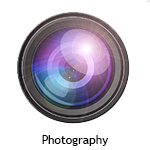
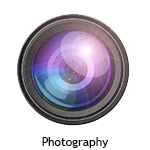
gallery.html

diff --git a/pages/gallery.html b/pages/gallery.html
@@ -36,6 +36,6 @@ function MM_swapImage() { //v3.0
 <h1 align="center"><img src="../Pictures/macbook.png" width="1024" height="300" alt="MacBook Pro" /></h1>
 <h2 align="center">Welcome to my portfolio page!</h2>
 <p align="center">Click on one of the following programs to view my projects: Adobe Photoshop, Adobe Illustrator, Cinema 4D.</p>
-<p align="center"><a href="photoshop.html"><img src="../images/photoshop.png" width="150" height="150" alt="Photoshop" /></a><a href="illustrator.html"><img src="../images/illustrator.png" width="150" height="150" alt="Illustrator" /></a><a href="cinema_4d.html"><img src="../images/cinema_4d.png" width="150" height="150" alt="Cinema 4D" /></a></p>
+<p align="center"><a href="photoshop.html"><img src="../images/photoshop.png" alt="Photoshop" width="150" height="150" border="0" /></a><a href="illustrator.html"><img src="../images/illustrator.png" alt="Illustrator" width="150" height="150" border="0" /></a><a href="cinema_4d.html"><img src="../images/cinema_4d.png" alt="Cinema 4D" width="150" height="150" border="0" /></a><a href="photography.html"><img src="../images/photography.png" alt="Photography" width="150" height="150" border="0" /></a></p>
 </body>
 </html>
